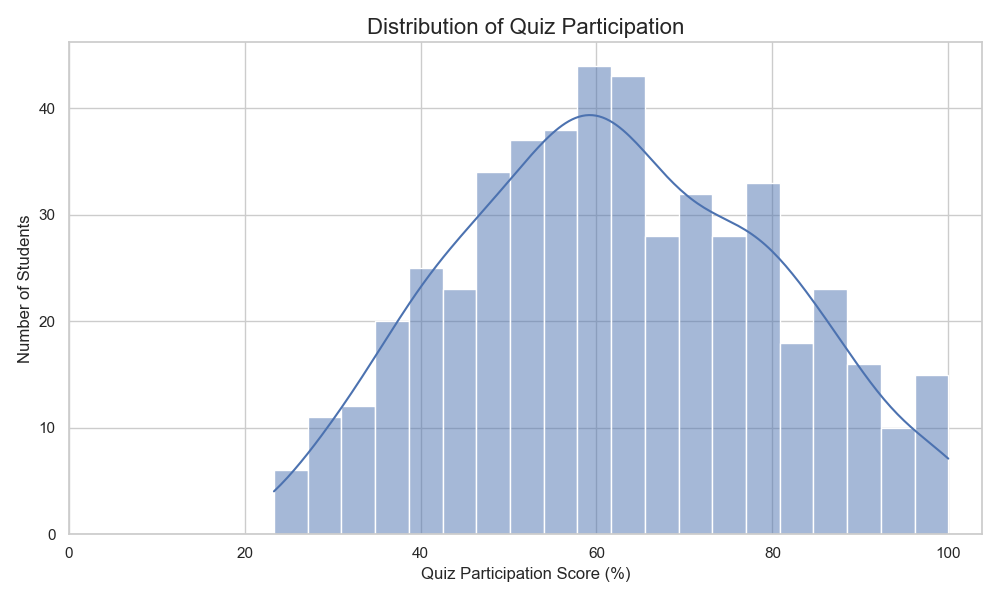
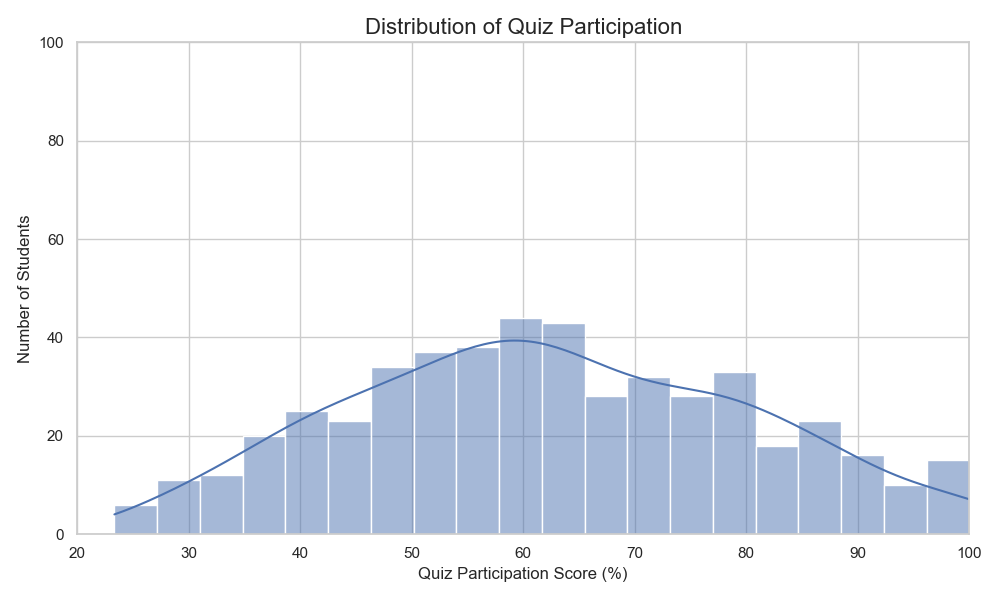
adding numpy

diff --git a/ProgrammingforAI/CA/visualisation.py b/ProgrammingforAI/CA/visualisation.py
@@ -1,6 +1,8 @@
+import os
 import pandas as pd
 import matplotlib.pyplot as plt
 import seaborn as sns
+import numpy as np
 from colorama import Fore, init
 
 # Initialising Colorama, I like Colors, dont judge me!
@@ -36,12 +38,20 @@ scatter_graph = sns.scatterplot(
 scatter_graph.set_title('Study Hours vs Past Performance', fontsize = 16)
 scatter_graph.set_xlabel('Study Hours (Normalized)', fontsize=12)
 scatter_graph.set_ylabel('Past Performance Score (%)', fontsize=12)
+
+# Fixing plot area and legend out of chart
+plt.xlim(left=0, right=1)
+plt.ylim(bottom=0, top=100)
 plt.legend(bbox_to_anchor=(1.02, 1), loc='upper left', borderaxespad=0.)
 plt.tight_layout()
 
 # Save file as PNG
+print(f"{Fore.YELLOW}--- Saving Scatter plot to scatter_performance_hours.png ---")
 plt.savefig('scatter_performance_hours.png')
-print(f"{Fore.GREEN}--- Scatter plot saved to scatter_performance_hours.png ---")
+
+# Chech file is created
+assert os.path.exists('scatter_performance_hours.png'), f"{Fore.RED}X X X ERROR: File not Created! X X X"
+print(f"{"\033[38;5;46m"}!!! Scatter Plot PNG Created !!!")
 plt.show()
 
 # Make a Histogram (Distribution of Quiz Participation)
@@ -60,14 +70,18 @@ hist_graph.set_title('Distribution of Quiz Participation', fontsize=16)
 hist_graph.set_xlabel('Quiz Participation Score (%)', fontsize=12)
 hist_graph.set_ylabel('Number of Students', fontsize=12)
 
-# Fixing plot to start in (0,0)
-plt.xlim(left=0)
-plt.ylim(bottom=0)
+# Fixing plot area
+plt.ylim(bottom=0, top=100)
+plt.xlim(left=np.floor(min(df['QuizParticipation'])/10)*10, right=100)
 plt.tight_layout()
 
 # Save file as PNG
+print(f"{Fore.YELLOW}--- Saving Histogram to histogram_quiz_participation.png ---")
 plt.savefig('histogram_quiz_participation.png')
-print(f"{Fore.GREEN}--- Histogram saved to histogram_quiz_participation.png ---")
+
+# Chech file is created
+assert os.path.exists('histogram_quiz_participation.png'), f"{Fore.RED}X X X ERROR: File not Created! X X X"
+print(f"{"\033[38;5;46m"}!!! Histogram PNG Created !!!")
 plt.show()
 
 # Make a Pie Chart (Performance Category Distribution)
